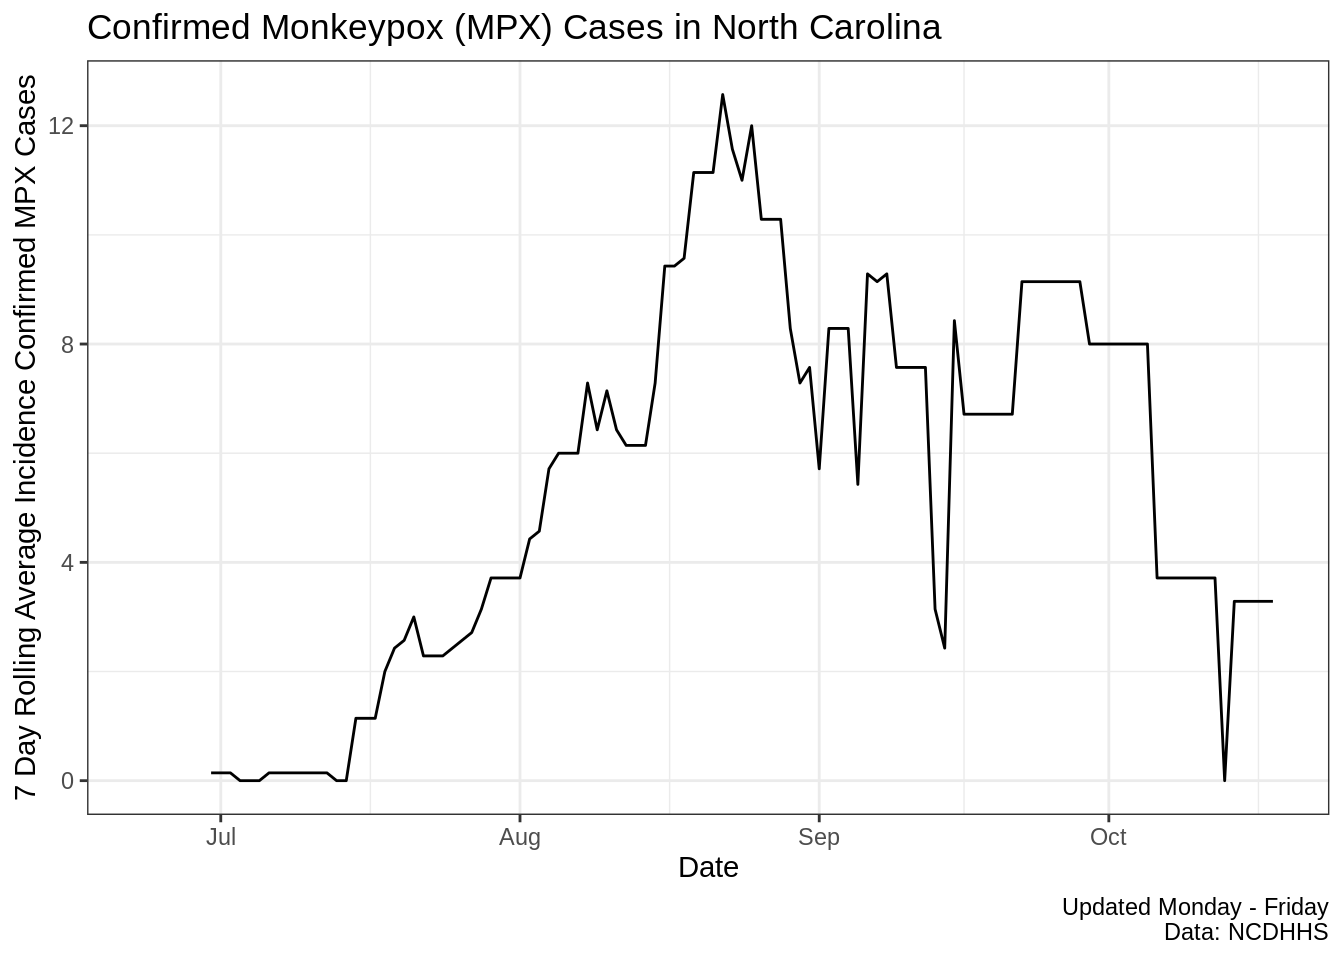
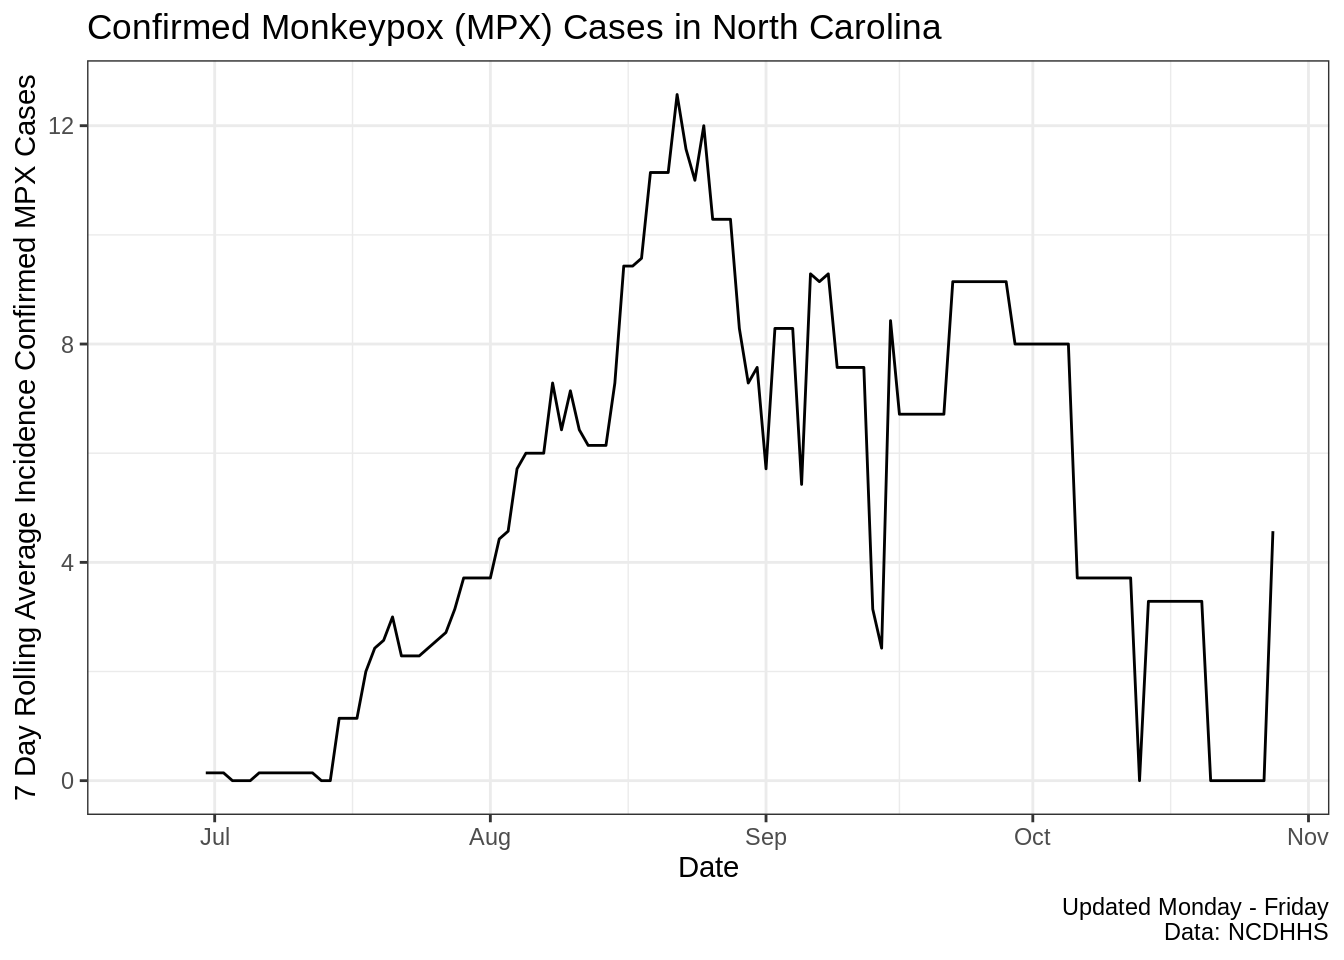
Update the latest data

diff --git a/docs/index.html b/docs/index.html
@@ -139,7 +139,7 @@ ul.task-list li input[type="checkbox"] {
 <div class="cell">
 
 </div>
-<p>These data are current as of 14 October, 2022. Current case incidence suggests a doubling time of 21.8 (95% CI, 19.6-24.6) days.</p>
+<p>These data are current as of 28 October, 2022. Current case incidence suggests a doubling time of 25.4 (95% CI, 22.6-28.9) days.</p>
 <div class="cell">
 <div class="cell-output-display">
 <p><img src="index_files/figure-html/unnamed-chunk-2-1.png" class="img-fluid" width="672"></p>
